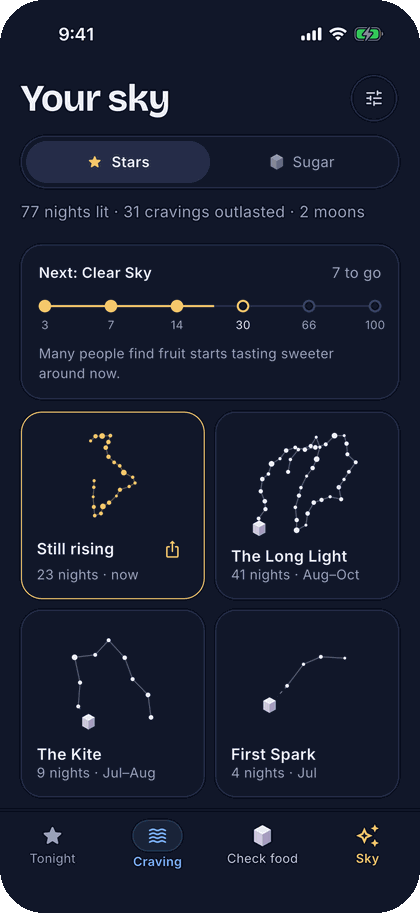
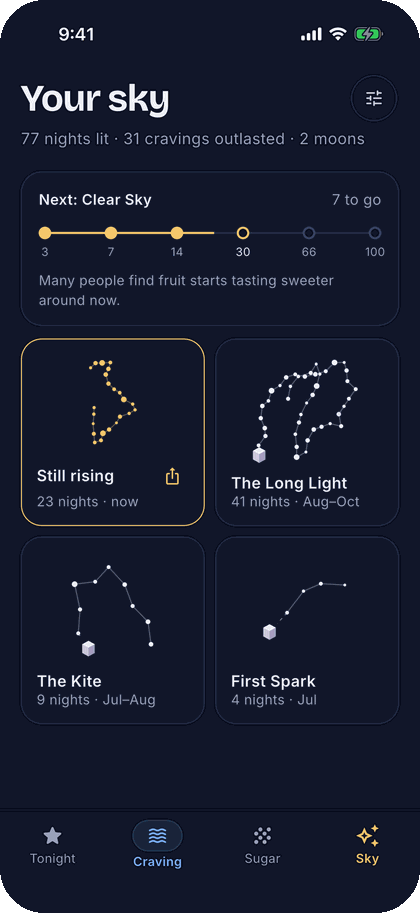
README: new screenshots for the Sugar tab

diff --git a/README.md b/README.md
@@ -9,7 +9,7 @@
 </p>
 
 <p align="center">
-  <img src="docs/screens/hero.jpg" alt="nosugar on iPhone: tonight's streak, your sky, and a shareable streak card">
+  <img src="docs/screens/hero.jpg" alt="nosugar on iPhone: your sugar, tonight's streak, and a shareable streak card">
 </p>
 
 ## The idea
@@ -27,14 +27,14 @@ Slip, and nothing is erased. Spend a moon to forgive it, or keep the crystal and
     <td align="center" width="33%"><img src="docs/screens/lit.png" width="240" alt="Star lit screen"><br><b>Star 24 is lit</b><br><sub>Every 7 nights earns a moon.</sub></td>
   </tr>
   <tr>
-    <td align="center"><img src="docs/screens/sos.png" width="240" alt="Craving SOS breathing screen"><br><b>Craving SOS</b><br><sub>Breathe for 90 seconds while it dissolves.</sub></td>
-    <td align="center"><img src="docs/screens/scan.png" width="240" alt="Label scanner"><br><b>Check food</b><br><sub>Finds sugar under its other names.</sub></td>
+    <td align="center"><img src="docs/screens/sos.png" width="240" alt="Craving SOS breathing screen"><br><b>Craving SOS</b><br><sub>Breathe it out. Each one becomes a comet.</sub></td>
     <td align="center"><img src="docs/screens/sky.png" width="240" alt="Your sky with past constellations"><br><b>Your sky</b><br><sub>Milestones at 3, 7, 14, 30, 66, 100.</sub></td>
+    <td align="center"><img src="docs/screens/streak.png" width="240" alt="Share your streak card"><br><b>Share your streak</b><br><sub>Your constellation, made for Stories.</sub></td>
   </tr>
   <tr>
-    <td align="center"><img src="docs/screens/grow.png" width="240" alt="Sugar crystal growing after a log"><br><b>Honest logs</b><br><sub>Sugar you ate grows a crystal.</sub></td>
-    <td align="center"><img src="docs/screens/sugar.png" width="240" alt="Your sugar: crystal cluster and packets"><br><b>Eaten vs skipped</b><br><sub>In 1 kg packets, like your kitchen.</sub></td>
-    <td align="center"><img src="docs/screens/streak.png" width="240" alt="Share your streak card"><br><b>Share your streak</b><br><sub>Your constellation, made for Stories.</sub></td>
+    <td align="center"><img src="docs/screens/sugar.png" width="240" alt="Sugar tab: a pile of grains inside the pile you would have eaten"><br><b>Sugar</b><br><sub>What you had, inside what you would have.</sub></td>
+    <td align="center"><img src="docs/screens/pour.png" width="240" alt="A teaspoon pouring sugar onto a small pile"><br><b>Hold to pour</b><br><sub>Log it a teaspoon at a time.</sub></td>
+    <td align="center"><img src="docs/screens/receipt.png" width="240" alt="A monthly sugar receipt"><br><b>Your receipt</b><br><sub>A month of sugar, ready to share.</sub></td>
   </tr>
 </table>
 
@@ -42,7 +42,7 @@ Slip, and nothing is erased. Spend a moon to forgive it, or keep the crystal and
 
 ## Built with
 
-Flutter for iOS and Android. Everything stays on the phone: no account, no server. Label scanning runs on-device with Apple Vision and Google ML Kit.
+Flutter for iOS and Android. Everything stays on the phone: no account, no server. The label scanner in the Sugar tab runs on-device with Apple Vision and Google ML Kit.
 
 ```sh
 flutter test
